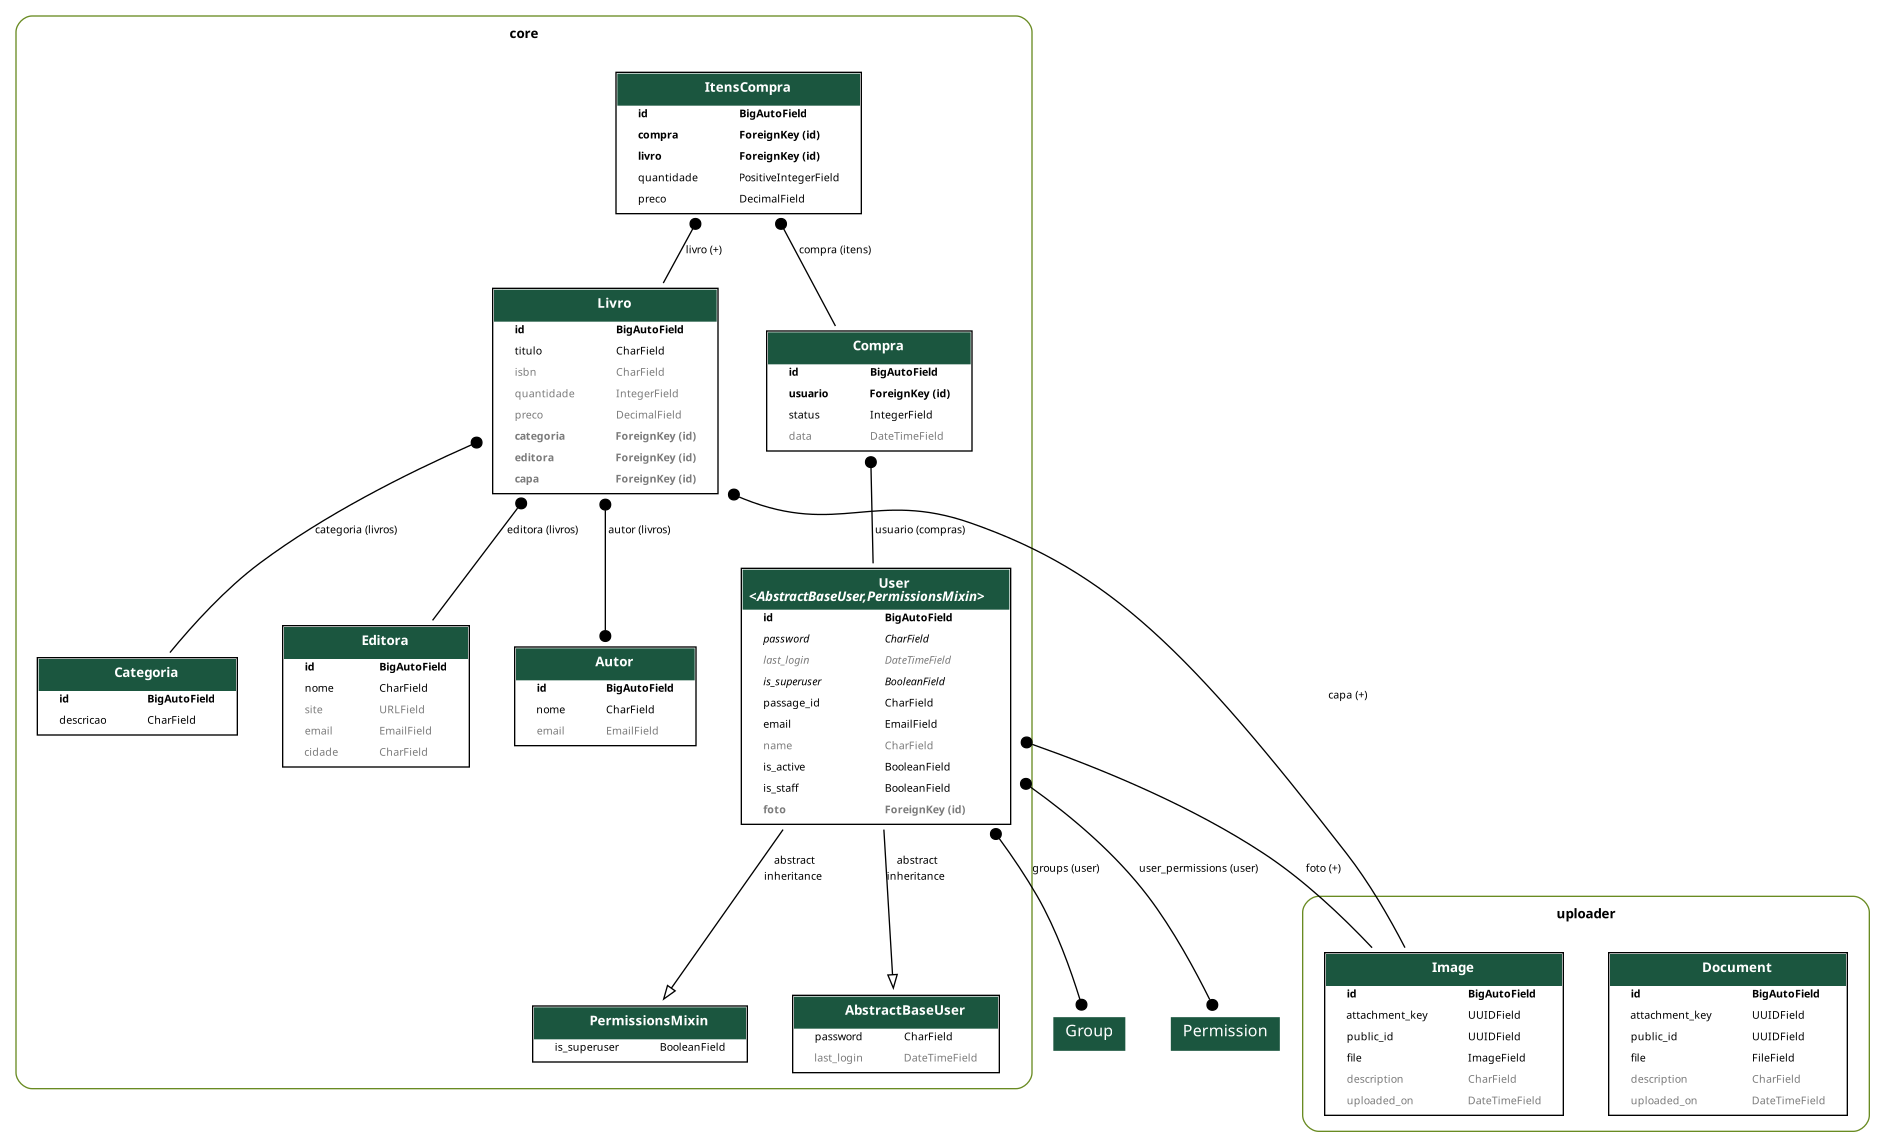
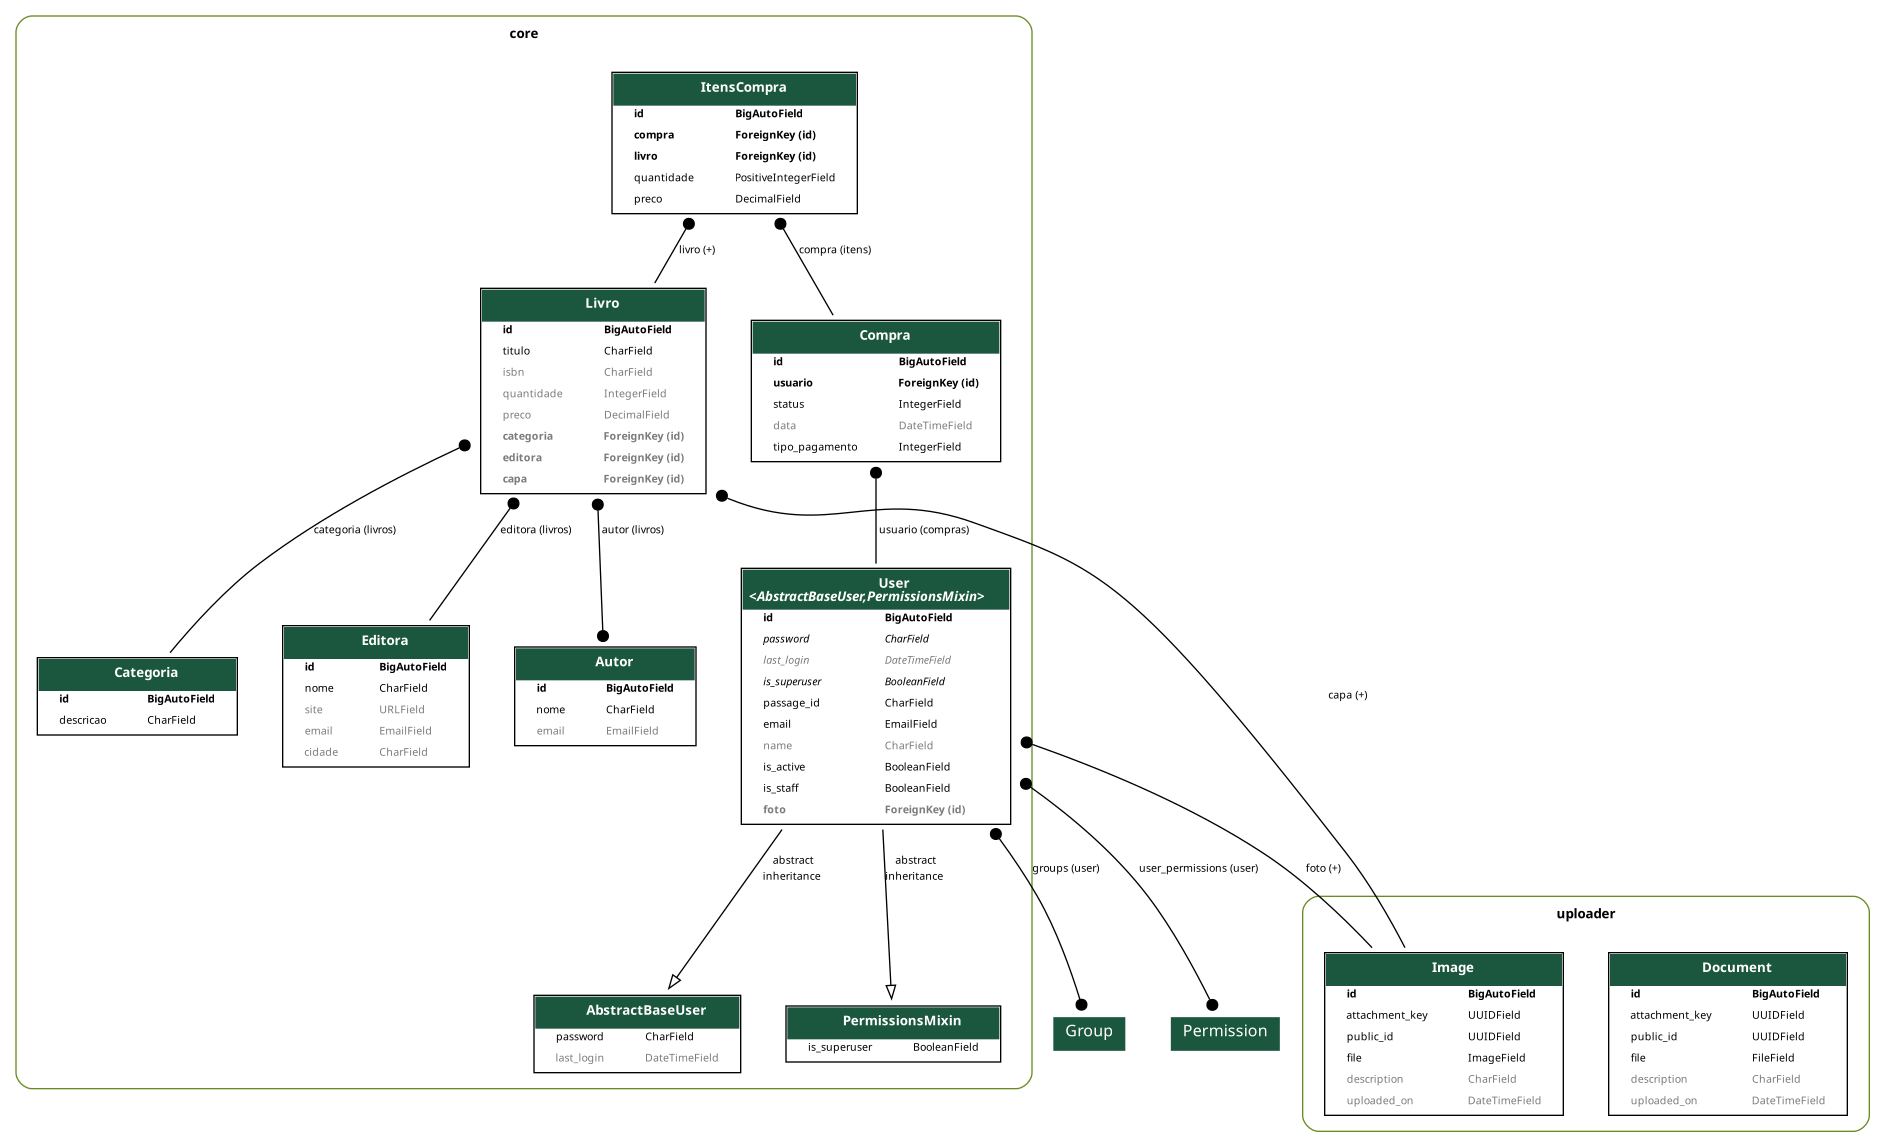
feat: adicionando tipo de pagamento à entidade de Compra

diff --git a/dev-web-II/livraria_backend/core/models/compra.py b/dev-web-II/livraria_backend/core/models/compra.py
@@ -4,6 +4,15 @@ from .livro import Livro
 
 
 class Compra(models.Model):
+    class TipoPagamento(models.IntegerChoices):
+        CARTAO_CREDITO = 1, "Cartão de Crédito"
+        CARTAO_DEBITO = 2, "Cartão de Débito"
+        PIX = 3, "PIX"
+        BOLETO = 4, "Boleto"
+        TRANSFERENCIA_BANCARIA = 5, "Transferência Bancária"
+        DINHEIRO = 6, "Dinheiro"
+        OUTRO = 7, "Outro"
+
     class StatusCompra(models.IntegerChoices):
         CARRINHO = 1, "Carrinho"
         FINALIZADO = 2, "Realizado"
@@ -13,6 +22,7 @@ class Compra(models.Model):
     usuario = models.ForeignKey(User, on_delete=models.PROTECT, related_name="compras")
     status = models.IntegerField(choices=StatusCompra.choices, default=StatusCompra.CARRINHO)
     data = models.DateTimeField(auto_now_add=True)
+    tipo_pagamento = models.IntegerField(choices=TipoPagamento.choices, default=TipoPagamento.CARTAO_CREDITO)
 
     @property
     def total(self):

diff --git a/dev-web-II/livraria_backend/core/serializers/compra.py b/dev-web-II/livraria_backend/core/serializers/compra.py
@@ -26,11 +26,12 @@ class CompraSerializer(ModelSerializer):
     usuario = CharField(source="usuario.username", read_only=True)
     status = CharField(source="get_status_display", read_only=True)
     data = DateTimeField(read_only=True)
+    tipo_pagamento = CharField(source="get_tipo_pagamento_display", read_only=True)
     itens = ItensCompraSerializer(many=True, read_only=True)
 
     class Meta:
         model = Compra
-        fields = ("id", "usuario", "status", "total", "data", "itens")
+        fields = ("id", "usuario", "status", "total", "data", "tipo_pagamento", "itens")
 
 
 class ItensCompraCreateUpdateSerializer(ModelSerializer):
@@ -94,4 +95,4 @@ class CompraListSerializer(ModelSerializer):
 
     class Meta:
         model = Compra
-        fields = ("id", "usuario", "data", "itens", "total")
+        fields = ("id", "usuario", "data", "itens", "tipo_pagamento", "total")

diff --git a/dev-web-II/livraria_backend/core/migrations/0019_compra_tipo_pagamento.py b/dev-web-II/livraria_backend/core/migrations/0019_compra_tipo_pagamento.py
@@ -1,0 +1,29 @@
+# Generated by Django 5.1.4 on 2025-01-09 20:06
+
+from django.db import migrations, models
+
+
+class Migration(migrations.Migration):
+
+    dependencies = [
+        ("core", "0018_compra_data"),
+    ]
+
+    operations = [
+        migrations.AddField(
+            model_name="compra",
+            name="tipo_pagamento",
+            field=models.IntegerField(
+                choices=[
+                    (1, "Cartão de Crédito"),
+                    (2, "Cartão de Débito"),
+                    (3, "PIX"),
+                    (4, "Boleto"),
+                    (5, "Transferência Bancária"),
+                    (6, "Dinheiro"),
+                    (7, "Outro"),
+                ],
+                default=1,
+            ),
+        ),
+    ]
